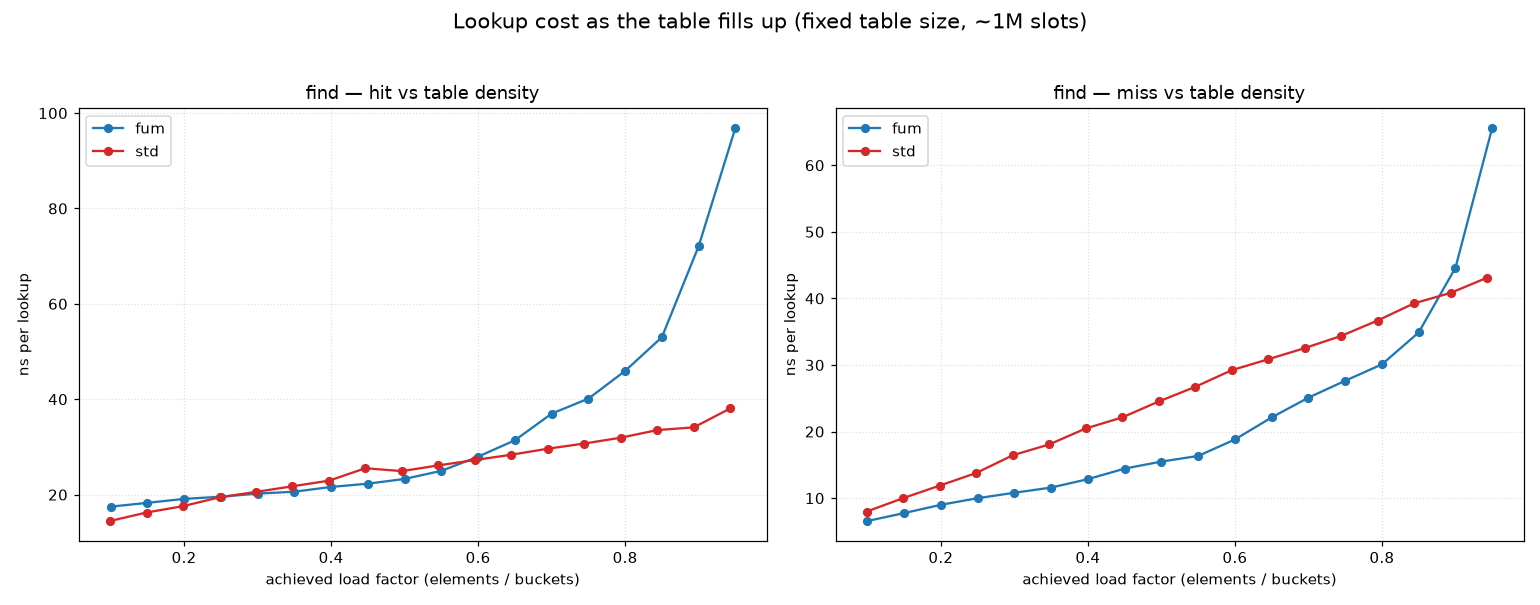
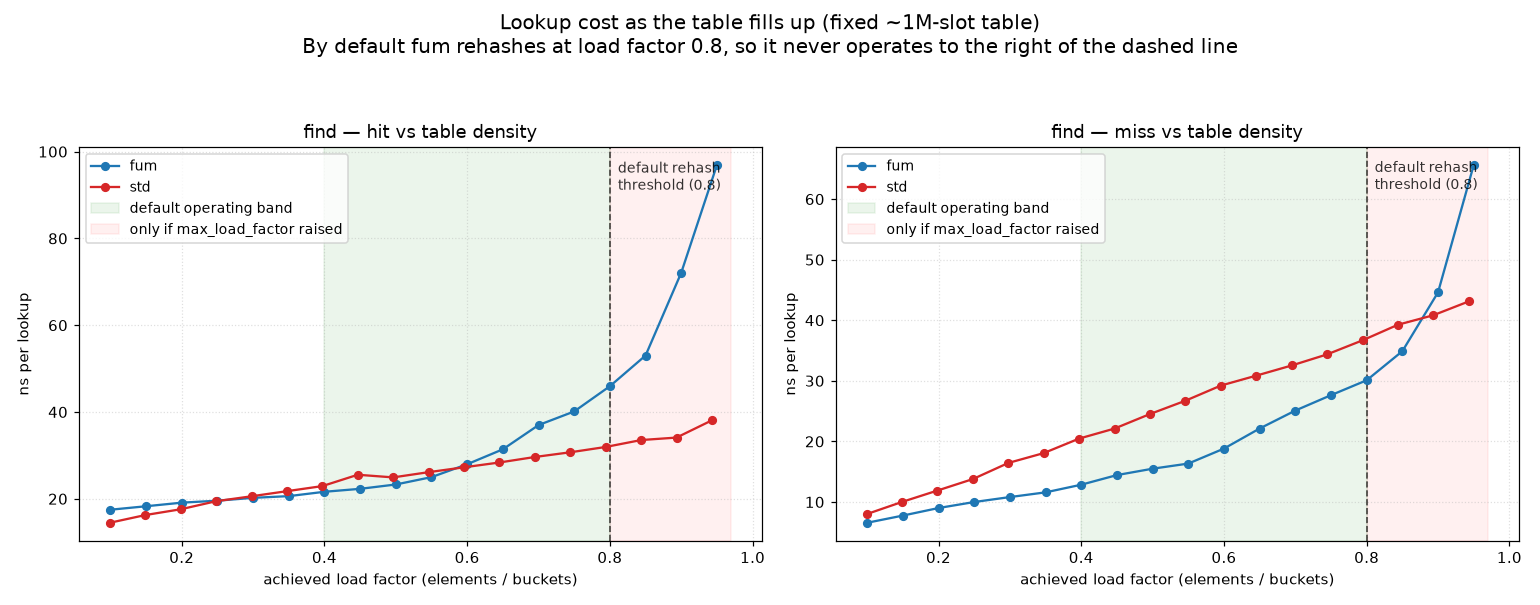
Annotate density plot with the default operating band
The density sweep reaches load factors > 0.8 only because it deliberately
raises max_load_factor to 0.99 and pins the bucket count. Under default
settings the table doubles (rehashes) on hitting 0.8, so the load factor
cycles within ~[0.4, 0.8] and never goes higher.

The density plot now shades the default operating band [0.4, 0.8], marks the
0.8 rehash threshold, and flags the > 0.8 region as reachable only with a
raised max_load_factor. README clarified to match.

Claude-Session: https://claude.ai/code/session_01LvDCeXZAqpCdSzudBhkXc2

diff --git a/benchmarks/plot_sweep.py b/benchmarks/plot_sweep.py
@@ -104,22 +104,37 @@ def plot_speedup(data, out_dir):
 
 
 def plot_density(data, out_dir):
+    # Default max_load_factor is 0.8: the table doubles (rehashes) on reaching
+    # it, so in normal use the load factor cycles in [0.4, 0.8] and never goes
+    # higher. The >0.8 region is only reached here by deliberately raising
+    # max_load_factor for the experiment.
     fig, axes = plt.subplots(1, 2, figsize=(14, 5.5))
     for ax, op in zip(axes, ("find_hit", "find_miss")):
         for container, color in (("fum", FUM_COLOR), ("std", STD_COLOR)):
             points = data["density"][op][container]
             xs = [p[0] for p in points]
             ys = [p[1] for p in points]
-            ax.plot(xs, ys, marker="o", markersize=5, color=color,
+            ax.plot(xs, ys, marker="o", markersize=5, color=color, zorder=3,
                     label=container)
+        ax.axvspan(0.4, 0.8, color="green", alpha=0.08, zorder=0,
+                   label="default operating band")
+        ax.axvspan(0.8, 0.97, color="red", alpha=0.06, zorder=0,
+                   label="only if max_load_factor raised")
+        ax.axvline(0.8, color="black", ls="--", lw=1.1, alpha=0.7, zorder=2)
+        top = ax.get_ylim()[1]
+        ax.text(0.8, top * 0.97, "  default rehash\n  threshold (0.8)",
+                fontsize=9, va="top", ha="left", alpha=0.8)
         ax.set_title(f"{OP_TITLES[op]} vs table density")
         ax.set_xlabel("achieved load factor (elements / buckets)")
         ax.set_ylabel("ns per lookup")
         ax.grid(True, ls=":", alpha=0.4)
-        ax.legend()
-    fig.suptitle("Lookup cost as the table fills up (fixed table size, ~1M slots)",
-                 fontsize=14)
-    fig.tight_layout(rect=(0, 0, 1, 0.95))
+        ax.legend(loc="upper left", fontsize=9)
+    fig.suptitle(
+        "Lookup cost as the table fills up (fixed ~1M-slot table)\n"
+        "By default fum rehashes at load factor 0.8, so it never operates to "
+        "the right of the dashed line",
+        fontsize=13)
+    fig.tight_layout(rect=(0, 0, 1, 0.93))
     path = f"{out_dir}/sweep_density.png"
     fig.savefig(path, dpi=110)
     plt.close(fig)

diff --git a/README.md b/README.md
@@ -138,11 +138,15 @@ chasing starts to miss cache:
 
 ![ns/op vs N](docs/img/sweep_size.png)
 
-**Lookup cost vs table density** (fixed ~1M-slot table). `find (miss)` stays
-cheap for `fum` because most probes are rejected by the in-cache fingerprint
-without ever touching element memory; `find (hit)` is comparable up to ~0.6 load
-and then climbs as Robin Hood probe chains lengthen — which is why the default
-`max_load_factor` is `0.8`, so the table rehashes before reaching that regime:
+**Lookup cost vs table density** (fixed ~1M-slot table). Note the default
+`max_load_factor` is `0.8`: on reaching it the table doubles its bucket count,
+so in normal use the load factor *cycles within ≈[0.4, 0.8]* and never crosses
+the dashed line (the > 0.8 region below was forced for the experiment by raising
+`max_load_factor` and pinning the bucket count). Inside that operating band,
+`find (miss)` is consistently faster for `fum` — most probes are rejected by the
+in-cache fingerprint without ever touching element memory — and `find (hit)` is
+on par with `std`. Past 0.8 `fum`'s Robin Hood probe chains lengthen and hit
+cost climbs, which is precisely why `0.8` is the default:
 
 ![ns/op vs load factor](docs/img/sweep_density.png)
 